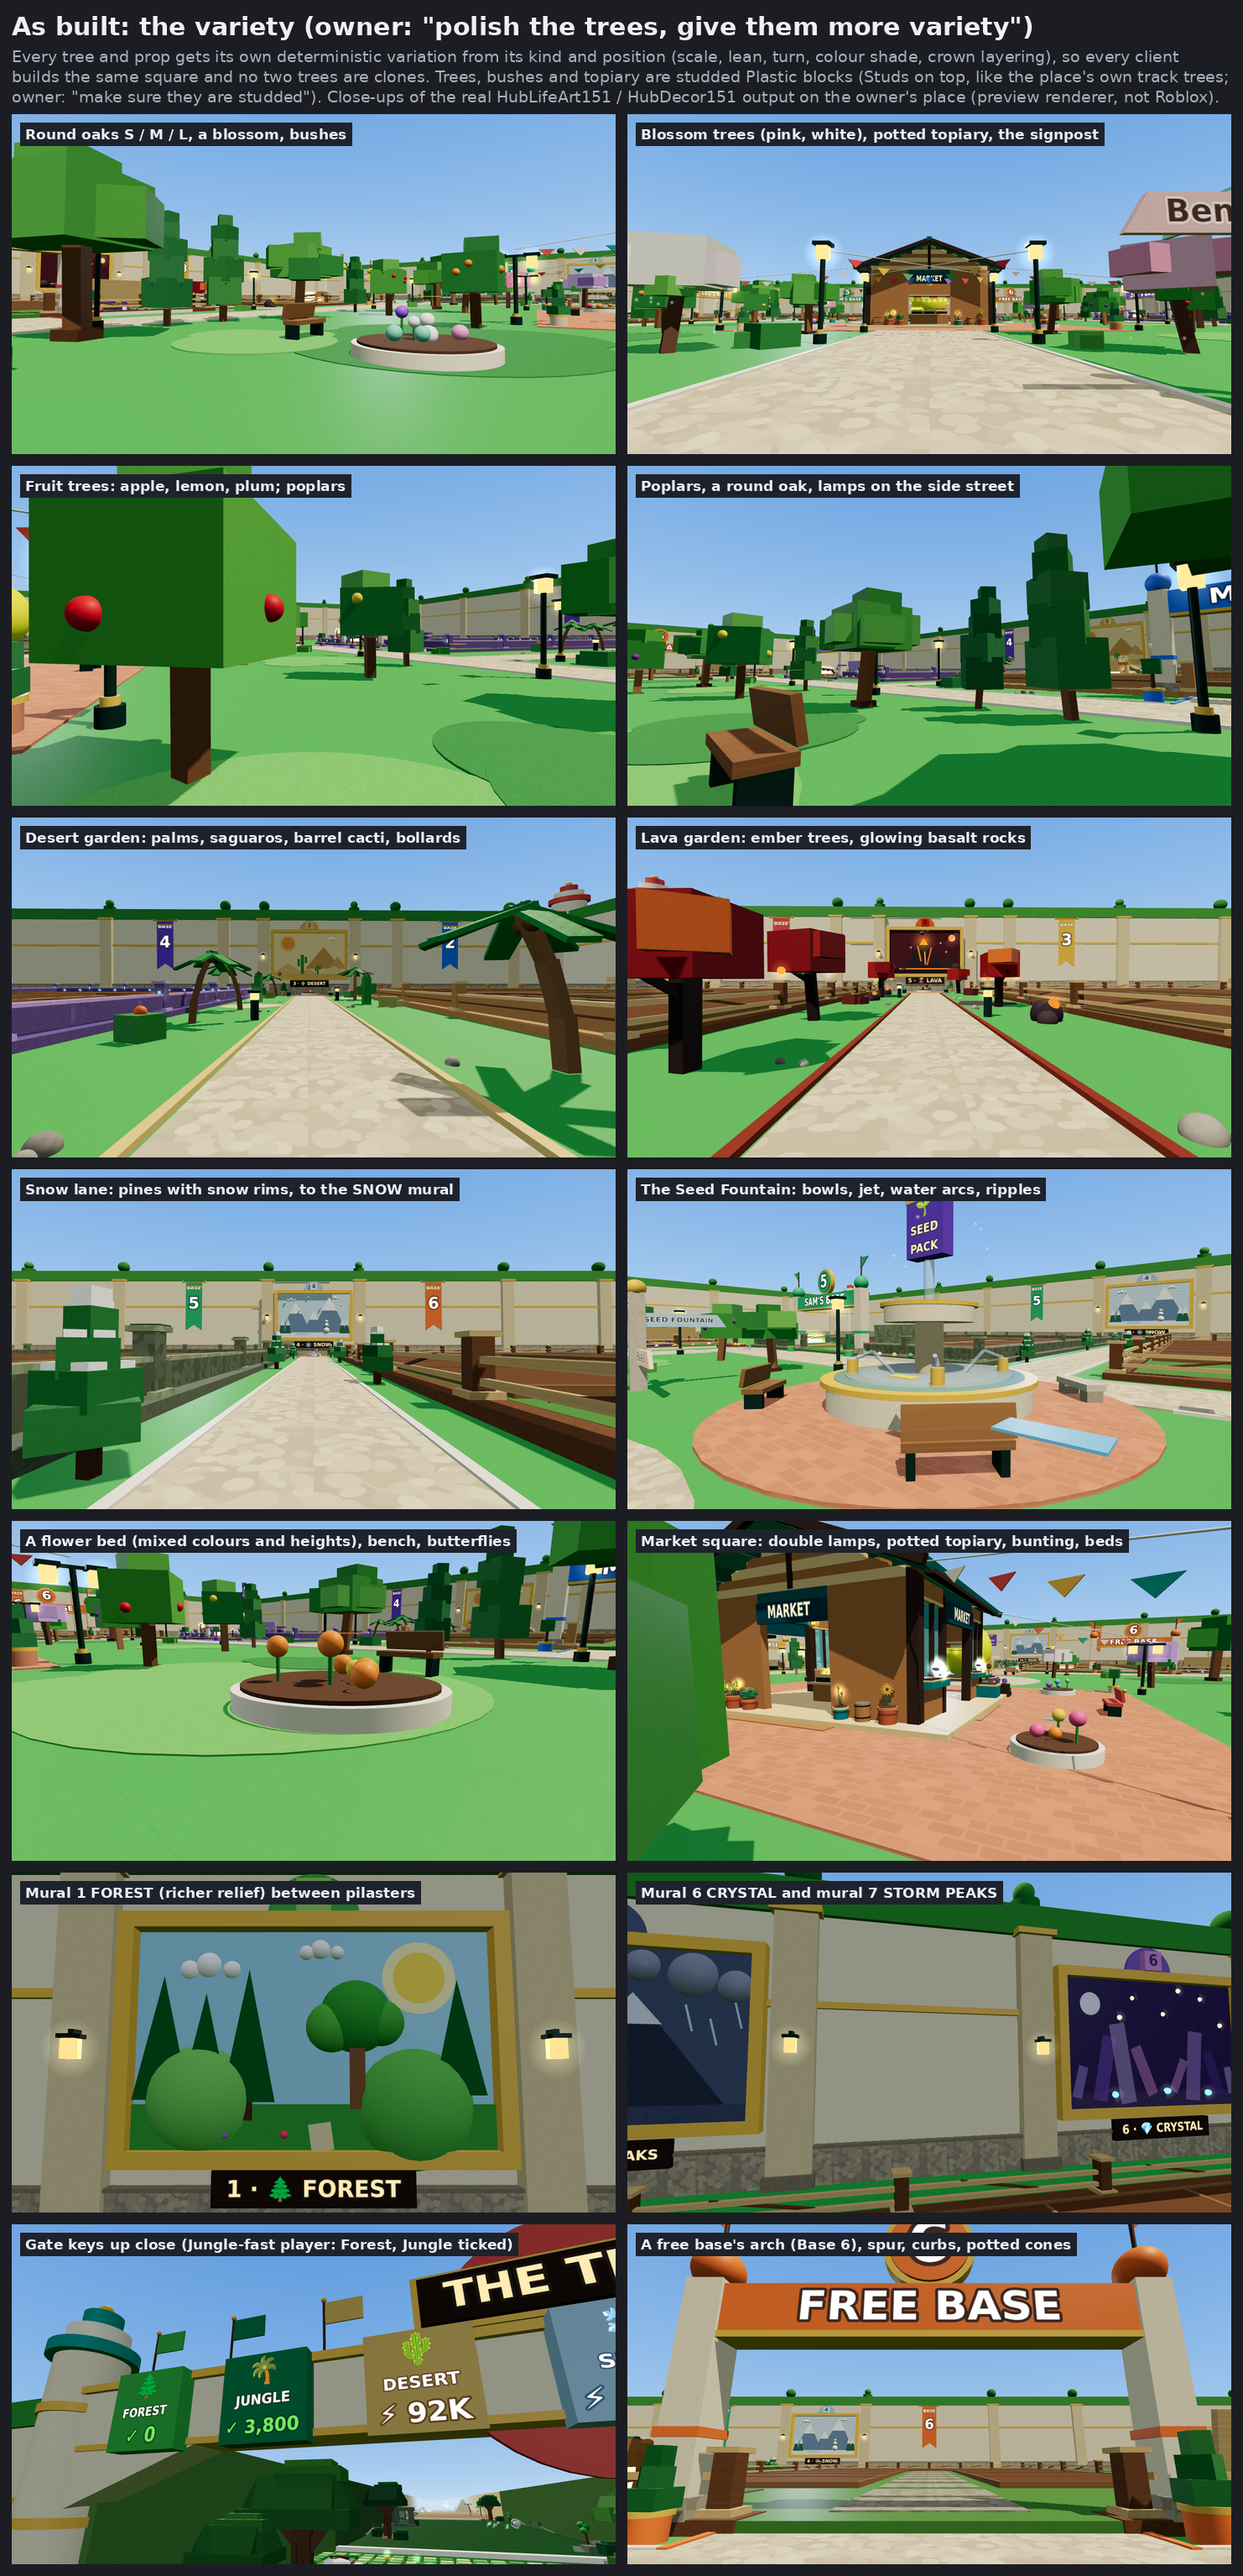
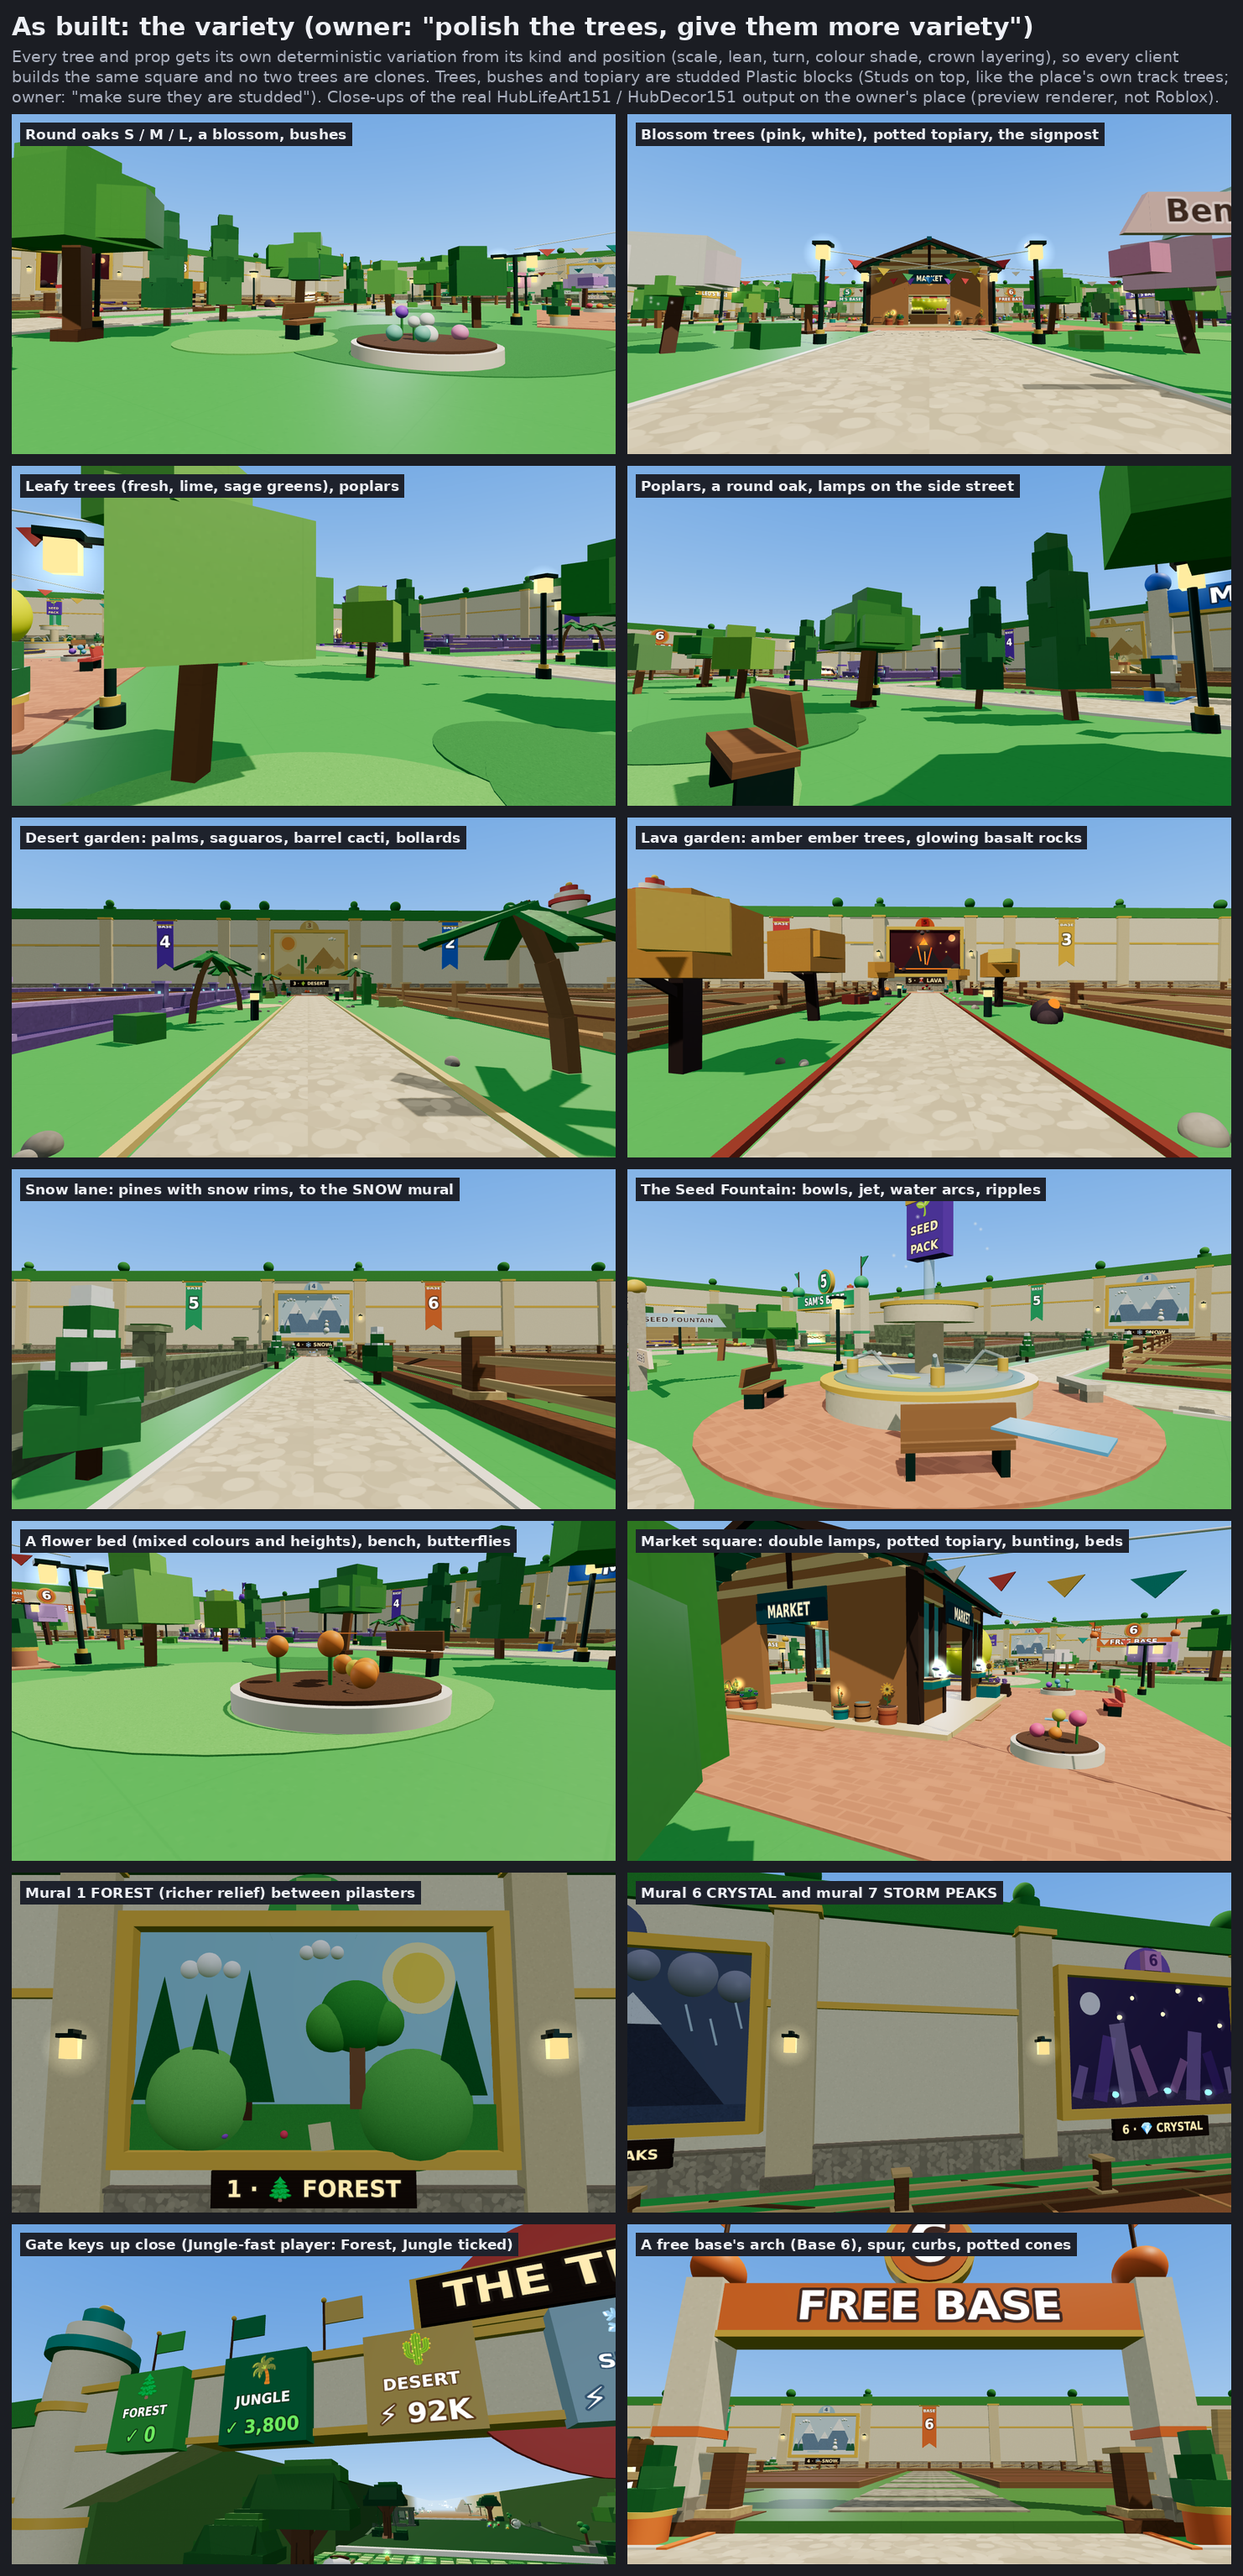
R151: hub trees are just trees — no fruit or red bits on any tree (fruit-tree slots become leafy trees; fruit stripped from the owner's tree models)
Claude-Session: https://claude.ai/code/session_01Ac4FxUwwkEJHAEFYr1TRJi

diff --git a/docs/proposals/R151/preview/make_base_area_built_sheets.py b/docs/proposals/R151/preview/make_base_area_built_sheets.py
@@ -58,7 +58,7 @@ def sheet(name, title, caption, small, big):
 
 CAPTIONS = {
  'spawn': "Ben spawns inside Base 1 and looks out at the hub. AS BUILT: his arch (BASE 1 inside, BEN'S BASE outside), a spur with curbs and a welcome mat in his colour, potted topiary, the avenue's poplars, blossoms, lamps and bunting, the market square and the gate towers on the right. The LOW TIER keeps every silhouette (trunks, main crowns, lamps, benches, beds, the fountain) and drops the small detail.",
- 'street': "The west street at the mouth of the alley between Base 1 and Base 3. AS BUILT: the Lava garden walk with its red edging, ember trees with glowing embers, basalt rocks, bollard lamps, pebbles, the base banners 1 and 3 and the LAVA mural (5 of 7) closing the view.",
+ 'street': "The west street at the mouth of the alley between Base 1 and Base 3. AS BUILT: the Lava garden walk with its red edging, ember trees in autumn amber, glowing basalt rocks, bollard lamps, pebbles, the base banners 1 and 3 and the LAVA mural (5 of 7) closing the view.",
  'entrance': "Base 3 from the west street. AS BUILT: the arch in the base's colour with the owner's name, the number medallion, pennants, a flower verge, potted topiary at the spur's street end; the 32-stud opening, fence art, treadmill and pedestal are untouched.",
  'walls': "The east wall at the end of the Desert garden. AS BUILT: the saved wall part (same size, place, collision) in cream plaster with a stone plinth and cap, a gold string course, pilasters on stone bases with topiary balls and two-tier topiary, a clipped hedge, wall lanterns, the DESERT mural (3 of 7, a richer relief), palms, cacti and the garden nook.",
  'backwall': "From the south street down the back lane between Base 5 and Base 6. AS BUILT: pines with snow rims along the lane, the lane's curbs, the SNOW mural (4 of 7) with a snowman, base banners 5 and 6.",
@@ -105,9 +105,9 @@ if STUD and os.path.exists(STUD):
     gap = 14; pw, ph = 720, 405; cols = 2
     W = cols * pw + (cols + 1) * gap
     intro = ('Owner: "there are different variations of trees that we can use make sure they are studded". LEFT: the leafy trees (oaks, blossoms, '
-             'fruit trees) with two STAND-IN studded tree models in ReplicatedStorage.HubTreeTemplates151 - made here, NOT the owner\'s Creator Store '
+             'leafy trees) with two STAND-IN studded tree models in ReplicatedStorage.HubTreeTemplates151 - made here, NOT the owner\'s Creator Store '
              'trees (16637971059, 17280628013), which cannot be downloaded offline: each slot gets a clone fitted to its size, turned, leaned, its '
-             'leaves in the slot\'s colour, fruit set in. RIGHT: no models (until they load, or on phones on low): the part-built studded trees. '
+             'leaves in the slot\'s colour, any fruit in the model removed (owner: "the trees are just trees"). RIGHT: no models (until they load, or on phones on low): the part-built studded trees. '
              'Pines, palms, cacti and ember trees are always part-built and studded. Preview renderer with a drawn stud pattern, not Roblox.')
     lines = wrap(ImageDraw.Draw(Image.new('RGB', (W, 10))), intro, W - 2 * gap, T2)
     top = 64 + 24 * len(lines); H = top + len(rows) * (ph + gap)

diff --git a/docs/proposals/R151/base_area.md b/docs/proposals/R151/base_area.md
@@ -5,6 +5,8 @@ Design proposal with renders. **Nothing in `src/` was changed**, and no installe
 > **Update (5 Oct 2026): approved and built.** You said *"i like this design and polish the trees, give them more variety and the stuff and everything"*. Phase 1 and Phase 2 are now in `src/`, with much more variety than the proposal. See **§8 As built** and the `base_area_built_*.png` pictures. The sections below are the original proposal, kept as written.
 >
 > **Update 2: studded trees.** You sent two Creator Store trees and said *"make sure they are studded"* and *"make sure they are collision is off"*. See **§9 Studded trees**, which also has the steps for you in Studio.
+>
+> **Update 3: just trees.** You said *"remove the apples or red stuff on the trees the trees are just trees"*. No tree has fruit or red bits any more. See **§10**.
 
 Your question (5 Oct 2026): *"I also want you to take a look at a redesign of the base area and the walls what can we add to liven up the base area"*.
 
@@ -414,7 +416,7 @@ You approved theme A (Seed Festival Square), the dressed 48-stud walls, base arc
 |---|---|
 | `base_area_built_spawn.png` … `_avenue.png` | The proposal's cameras, plus a new avenue view. Each sheet has TODAY (before R151) and the LOW TIER (phones on low or FastMode) small, and AS BUILT (desktop tier) large. Sheets: spawn, street, entrance, walls, backwall, gate, aerial, avenue. |
 | `base_area_built_darkened.png` | The lamps switched on in The Darkened's blackout. |
-| `base_area_built_variety.png` | 14 close-ups of the tree and prop variety: oaks, blossoms, fruit trees, poplars, Desert and Lava gardens, the Snow lane, the fountain, a bed, the market square, two murals, the gate keys with green ticks, and a free base's arch. |
+| `base_area_built_variety.png` | 14 close-ups of the tree and prop variety: oaks, blossoms, leafy trees, poplars, Desert and Lava gardens, the Snow lane, the fountain, a bed, the market square, two murals, the gate keys with green ticks, and a free base's arch. |
 | `base_area_built_plan.png` | The built hub from above, with zones and the part budget the tests counted. |
 
 The pictures are still previews, not Roblox screenshots: no Roblox lighting, PBR materials, bloom or Fredoka font. The approved pack mesh isn't available offline, so the fountain shows its part-built fallback pack.
@@ -457,10 +459,10 @@ The pictures are still previews, not Roblox screenshots: no Roblox lighting, PBR
   - 14 round oaks in 3 sizes;
   - 8 poplars and cypresses;
   - 8 blossoms (pink, white, lilac) with falling petals near the camera;
-  - 8 fruit trees (apple, orange, lemon, plum);
+  - 8 leafy trees in four greens (fresh, deep, lime, sage); these were fruit trees until §10;
   - 6 pines with snow rims on the Snow lane;
   - 5 palms and 4 cacti (saguaro, barrel) in the Desert garden;
-  - 5 ember trees and 4 glowing basalt rocks in the Lava garden.
+  - 5 ember trees (autumn amber since §10) and 4 glowing basalt rocks in the Lava garden.
 - **Props:**
   - 16 bushes (garden, desert and ember kinds), and potted topiary cones and balls.
   - Mixed flower beds (warm and cool mixes, three heights).
@@ -566,16 +568,16 @@ This section records what was built for them. The Roblox site is blocked here, s
   - Each block of a tree keeps its top and bottom off the planes of that tree's other blocks, so nothing flickers.
   - The species, sizes, colours, positions and per-tree variety are unchanged.
   - This costs no extra parts, textures or uploads.
-- **Your models take the leafy slots:** the 14 oaks, 8 blossoms and 8 fruit trees (30 slots).
+- **Your models take the leafy slots:** the 14 oaks, 8 blossoms and 8 leafy trees (30 slots).
   - Each slot gets its own clone, fitted to the slot by its bounding box: `Model:ScaleTo` to the slot's height (13 to 23 studs), never wider than the slot's crown.
   - Each clone gets its own turn and a lean of up to 3 degrees. It stands on the floor, sunk 0.3 studs.
   - The leaves take the slot's colour:
-    - oaks and fruit trees get one of six greens, each part keeping its own light or dark;
+    - oaks get one of six greens, leafy trees their slot's green tone, each part keeping its own light or dark;
     - blossoms get pink, white or lilac.
-  - Fruit trees keep their fruit as my parts, set into the clone's crown. Blossoms keep their falling petals.
+  - Any fruit in your model is removed (§10). Blossoms keep their falling petals.
   - With several models, they are spread over the slots by a hash, so every player sees the same square.
 - **Which trees, and why:**
-  - Oaks, blossoms and fruit trees have round crowns, which a tree model fits.
+  - Oaks, blossoms and leafy trees have round crowns, which a tree model fits.
   - Poplars stay part-built: they are tall columns, and uniform scaling can't make a column out of a round tree. They also keep the variety.
   - Pines (Snow lane), palms and cacti (Desert garden), ember trees and glowing rocks (Lava garden) are themed shapes, so they stay part-built. They are studded too.
   - A model whose leaves cannot be recoloured (a textured MeshPart or a SurfaceAppearance) is not used for blossoms, because they would be green.
@@ -609,7 +611,7 @@ This section records what was built for them. The Roblox site is blocked here, s
   - Clone parts of 2 studs or more cast shadows on tiers 2 and 3. Small bits and tier 1 cast none.
   - What happened on your screen is in `workspace.HubLife151`'s attributes:
     - `TemplateParts`, for example `StandInStudTree 9, StandInStudTree2 12`;
-    - `UsedFor`, for example `30 of 30 leafy trees (oak 14, blossom 8, fruit 8), 321 parts; tier 3: one tree up to 40 parts, 600 in all`;
+    - `UsedFor`, for example `30 of 30 leafy trees (oak 14, blossom 8, leafy 8), 321 parts; tier 3: one tree up to 40 parts, 600 in all`;
     - `ScriptsRemoved`.
 - **Broken or missing models:**
   - An empty model, a script, a part with an impossible size, or a model that cannot be copied is reported in `TemplateParts` and skipped.
@@ -679,7 +681,7 @@ This section records what was built for them. The Roblox site is blocked here, s
   - parts and models added later are locked;
   - signs, lamp lights and particles survive level-of-detail changes.
 - **Models:** templates of 5, 14, 30 and 60 parts; broken ones (empty, a script, NaN size); the budget per tier; textured models kept out of blossom slots.
-- **Spread and fit:** models spread by hash and deterministic; fit (height, width, grounded, on the slot); leaf colours; fruit; each clone with its own turn.
+- **Spread and fit:** models spread by hash and deterministic; fit (height, width, grounded, on the slot); leaf colours; no fruit (§10); each clone with its own turn.
 - **Folder changes:**
   - a model added later is picked up;
   - nothing changes while the folder stays the same;
@@ -719,3 +721,64 @@ The z-fighting scene check passes **both** with the part-built studded trees and
 2. **Route A or B really loading** (Output and `/test hubtrees`). `LoadAssetAsync` is new API; if it's missing, route B or C still works.
 3. **The stud look on the block trees** in real lighting, next to the track's own studded trees. Roblox draws Studs on Plastic block faces.
 4. **The client rebuild** when the models arrive a moment after a player joins: it should happen once.
+
+---
+
+## 10. Just trees (no fruit, nothing red)
+
+You said: *"remove the apples or red stuff on the trees the trees are just trees"*.
+
+### What changed
+- **No fruit on any tree.**
+  - The 8 fruit-tree slots (apple, orange, lemon, plum) are now **plain leafy trees**. Each has a crown block, a top block and a side block in one of four greens: fresh, deep, lime or sage.
+  - Same places, same sizes, the same per-tree variety, still studded and never colliding.
+  - Your tree models fill these slots too (`UsedFor` now counts them as `leafy`).
+- **Nothing else that reads as fruit or "red stuff" on a tree:**
+  - the palms' coconuts are gone;
+  - the cacti's flower balls are gone;
+  - the ember trees' little glowing balls are gone;
+  - the ember trees' crowns changed from red and orange-red to **autumn amber and gold**.
+- **Kept, my judgement:**
+  - **Blossoms** keep their pink, white and lilac crowns and the soft petals that fall near the camera. They are the trees' own leaves, and pastel, not red.
+  - The Lava garden keeps its glow on the **basalt rocks**, which are not trees.
+  - The flower beds, verges and bunting are not on trees, so they are unchanged.
+  - If you'd rather have green ember trees or plain green blossoms, either is a one-line palette change.
+- **Your tree models are cleaned of fruit as well**, by `HubStudTrees151.StripFruit`, on the server when they load and again on each screen. A part is removed when either is true:
+  - its name is a fruit: apple, cherry, orange, berry, lemon, peach, pear, plum, coconut, banana, mango, apricot, grape, fig or "fruit";
+  - it is a small part (at most 14 % of the tree's height) in a fruit colour: red or crimson, bright orange or yellow, purple or magenta.
+  - Trunks, branches (browns) and leaves (greens) always stay.
+  - A model that is nothing but fruit is skipped as broken.
+  - The count shows in the Output (`[R151 trees] … N fruit removed`), in `TemplateParts` (for example `Fruity 10 (6 fruit removed)`), in the folder's `FruitRemoved` attribute, and in `/test hubtrees`.
+
+### Tests
+- **`run_hub_trees.sh`:** 57 passed, 0 failed. A walk of the whole square, with the models and with the part-built trees, finds none of these:
+  - no part named like a fruit (or Fruit, Coconut, Ember, Cactus flower);
+  - nothing fruit-like in a clone;
+  - nothing red on a tree part;
+  - no ball in any tree's crown space.
+  - A fake model with 3 apples, 2 unnamed red bits and a lemon loses exactly those 6; its twig and small leaf stay.
+  - The server strips the loaded models' fruit (`FruitRemoved`).
+- **Mutations: 26 of 26 mutations caught.** Six of them put fruit back, and each is caught:
+  - fruit balls on the leafy trees;
+  - unnamed red balls on the oaks;
+  - red ember crowns;
+  - templates keeping their fruit;
+  - names-only detection, so unnamed red fruit stays;
+  - the server keeping the loaded models' fruit.
+- **`run_base_area.sh`:** 67 passed, 0 failed, including "no fruit … on any tree" on your place. The z-fighting checks are clean.
+- **`run_cloudy.sh`:** static checks, then 141 + 175 + 79 checks, and 30 on your place, all passed.
+- **`run_perf.sh`:** 75 checks, and 9 of 9 on your place, all passed.
+
+### Budgets
+Without models, the part-built trees cost fewer parts than before §10: no fruit, coconuts, cactus flowers or embers, and one side block per leafy tree.
+
+| | At §9 (measured then) | Now |
+|---|---|---|
+| Tier 1 | 435 | 435 |
+| Tier 2 | 1,114 | 1,050 |
+| Tier 3 | 1,165 | 1,101 |
+| A phone at the front street | 703 | 680 |
+| Tier 2 with the stand-in models | 1,257 | 1,184 |
+| Tier 3 with the stand-in models | 1,317 | 1,241 |
+
+Server Phase 1 is unchanged at 725. The pictures (`base_area_built_studded.png`, `base_area_built_variety.png` and the other `base_area_built_*.png` sheets) are re-rendered.
